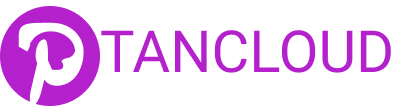
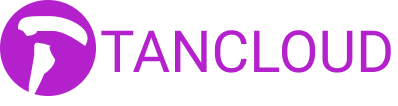
[docs]tancloud新logo更新

Changed region(s): [[0.0, 0.0, 0.2714, 1.0]]

diff --git a/web-app/src/app/core/startup/startup.service.ts b/web-app/src/app/core/startup/startup.service.ts
@@ -30,6 +30,9 @@ export class StartupService {
     private router: Router
   ) {
     iconSrv.addIcon(...ICONS_AUTO, ...ICONS);
+    iconSrv.fetchFromIconfont({
+      scriptUrl: 'https://at.alicdn.com/t/font_3113282_flj0py4g7ft.js'
+    });
   }
 
   private viaHttp(): Observable<void> {

diff --git a/manager/src/main/java/com/usthe/manager/pojo/dto/DingTalkWebHookDto.java b/manager/src/main/java/com/usthe/manager/pojo/dto/DingTalkWebHookDto.java
@@ -15,6 +15,7 @@ import lombok.NoArgsConstructor;
 @Builder
 @AllArgsConstructor
 @NoArgsConstructor
+@SuppressWarnings("PMD")
 public class DingTalkWebHookDto {
 
     public static final String WEBHOOK_URL = "https://oapi.dingtalk.com/robot/send?access_token=";
